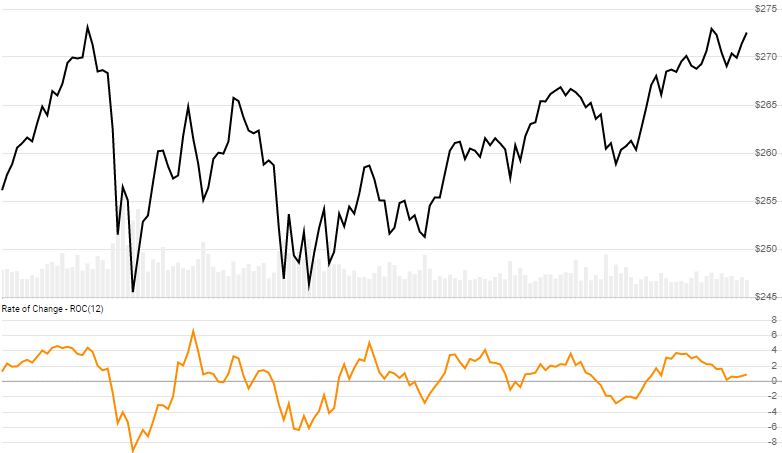
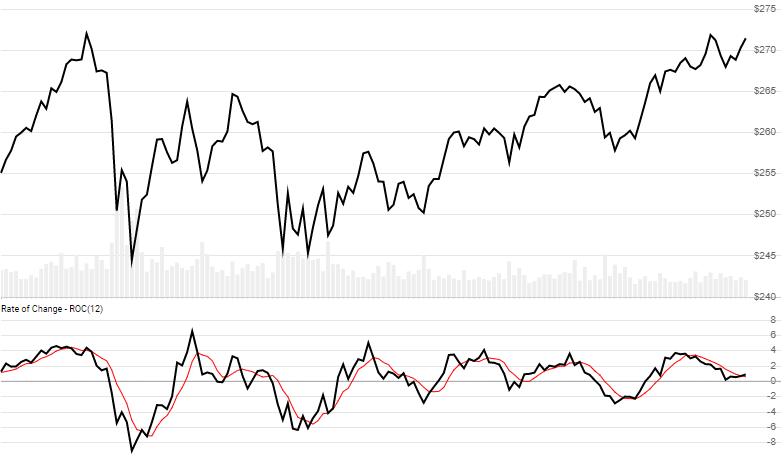
add SMA overlay for ROC, STDEV (#140)
* add SMA for ADL
* add SMA of STDEV
* update charts

diff --git a/tests/indicators/Test.StdDev.cs b/tests/indicators/Test.StdDev.cs
@@ -1,0 +1,93 @@
+using Microsoft.VisualStudio.TestTools.UnitTesting;
+using Skender.Stock.Indicators;
+using System;
+using System.Collections.Generic;
+using System.Linq;
+
+namespace Internal.Tests
+{
+    [TestClass]
+    public class StandardDevTests : TestBase
+    {
+
+        [TestMethod()]
+        public void GetStdDevTest()
+        {
+            int lookbackPeriod = 10;
+            IEnumerable<StdDevResult> results = Indicator.GetStdDev(history, lookbackPeriod);
+
+            // assertions
+
+            // proper quantities
+            // should always be the same number of results as there is history
+            Assert.AreEqual(502, results.Count());
+            Assert.AreEqual(493, results.Where(x => x.StdDev != null).Count());
+            Assert.AreEqual(493, results.Where(x => x.ZScore != null).Count());
+            Assert.AreEqual(false, results.Any(x => x.Sma != null));
+
+            // sample values
+            StdDevResult r1 = results.Where(x => x.Index == 502).FirstOrDefault();
+            Assert.AreEqual(5.4738m, Math.Round((decimal)r1.StdDev, 4));
+            Assert.AreEqual(0.524312m, Math.Round((decimal)r1.ZScore, 6));
+            Assert.AreEqual(null, r1.Sma);
+
+            StdDevResult r2 = results.Where(x => x.Index == 250).FirstOrDefault();
+            Assert.AreEqual(0.9827m, Math.Round((decimal)r2.StdDev, 4));
+            Assert.AreEqual(0.783563m, Math.Round((decimal)r2.ZScore, 6));
+            Assert.AreEqual(null, r2.Sma);
+        }
+
+        [TestMethod()]
+        public void GetStdDevWithSmaTest()
+        {
+            int lookbackPeriod = 10;
+            int smaPeriod = 5;
+            IEnumerable<StdDevResult> results = Indicator.GetStdDev(history, lookbackPeriod, smaPeriod);
+
+            // assertions
+
+            // proper quantities
+            // should always be the same number of results as there is history
+            Assert.AreEqual(502, results.Count());
+            Assert.AreEqual(493, results.Where(x => x.StdDev != null).Count());
+            Assert.AreEqual(493, results.Where(x => x.ZScore != null).Count());
+            Assert.AreEqual(489, results.Where(x => x.Sma != null).Count());
+
+            // sample values
+            StdDevResult r1 = results.Where(x => x.Index == 502).FirstOrDefault();
+            Assert.AreEqual(5.4738m, Math.Round((decimal)r1.StdDev, 4));
+            Assert.AreEqual(0.524312m, Math.Round((decimal)r1.ZScore, 6));
+            Assert.AreEqual(7.6886m, Math.Round((decimal)r1.Sma, 4));
+
+            StdDevResult r2 = results.Where(x => x.Index == 20).FirstOrDefault();
+            Assert.AreEqual(1.1642m, Math.Round((decimal)r2.StdDev, 4));
+            Assert.AreEqual(-0.065282m, Math.Round((decimal)r2.ZScore, 6));
+            Assert.AreEqual(1.1422m, Math.Round((decimal)r2.Sma, 4));
+        }
+
+
+        /* EXCEPTIONS */
+
+        [TestMethod()]
+        [ExpectedException(typeof(BadParameterException), "Bad lookback.")]
+        public void BadLookback()
+        {
+            Indicator.GetStdDev(history, 1);
+        }
+
+        [TestMethod()]
+        [ExpectedException(typeof(BadParameterException), "Bad SMA period.")]
+        public void BadSmaPeriod()
+        {
+            Indicator.GetStdDev(history, 14, 0);
+        }
+
+        [TestMethod()]
+        [ExpectedException(typeof(BadHistoryException), "Insufficient history.")]
+        public void InsufficientHistory()
+        {
+            Indicator.GetStdDev(history.Where(x => x.Index < 30), 30);
+        }
+
+    }
+}

diff --git a/indicators/StdDev/StdDev.cs b/indicators/StdDev/StdDev.cs
@@ -6,24 +6,26 @@ namespace Skender.Stock.Indicators
     public static partial class Indicator
     {
         // STANDARD DEVIATION
-        public static IEnumerable<StdDevResult> GetStdDev(IEnumerable<Quote> history, int lookbackPeriod)
+        public static IEnumerable<StdDevResult> GetStdDev(
+            IEnumerable<Quote> history, int lookbackPeriod, int? smaPeriod = null)
         {
 
             // convert to basic data
             IEnumerable<BasicData> bd = Cleaners.ConvertHistoryToBasic(history, "C");
 
             // calculate
-            return CalcStdDev(bd, lookbackPeriod);
+            return CalcStdDev(bd, lookbackPeriod, smaPeriod);
         }
 
 
-        private static IEnumerable<StdDevResult> CalcStdDev(IEnumerable<BasicData> basicData, int lookbackPeriod)
+        private static IEnumerable<StdDevResult> CalcStdDev(
+            IEnumerable<BasicData> basicData, int lookbackPeriod, int? smaPeriod = null)
         {
             // clean data
             List<BasicData> basicDataList = Cleaners.PrepareBasicData(basicData).ToList();
 
             // validate inputs
-            ValidateStdDev(basicData, lookbackPeriod);
+            ValidateStdDev(basicData, lookbackPeriod, smaPeriod);
 
             // initialize results
             List<StdDevResult> results = new List<StdDevResult>();
@@ -58,19 +60,36 @@ namespace Skender.Stock.Indicators
                 }
 
                 results.Add(result);
+
+                // optional SMA
+                if (smaPeriod != null && bd.Index >= lookbackPeriod + smaPeriod-1)
+                {
+                    decimal sumSma = 0m;
+                    for (int p = (int)bd.Index - (int)smaPeriod; p < bd.Index; p++)
+                    {
+                        sumSma += (decimal)results[p].StdDev;
+                    }
+
+                    result.Sma = sumSma / smaPeriod;
+                }
             }
 
             return results;
         }
 
 
-        private static void ValidateStdDev(IEnumerable<BasicData> basicData, int lookbackPeriod)
+        private static void ValidateStdDev(IEnumerable<BasicData> basicData, int lookbackPeriod, int? smaPeriod)
         {
 
             // check parameters
             if (lookbackPeriod <= 1)
             {
                 throw new BadParameterException("Lookback period must be greater than 1 for Standard Deviation.");
+            }
+
+            if (smaPeriod != null && smaPeriod <= 0)
+            {
+                throw new BadParameterException("SMA period must be greater than 0 for Standard Deviation.");
             }
 
             // check history

diff --git a/tests/indicators/Test.Roc.cs b/tests/indicators/Test.Roc.cs
@@ -21,11 +21,42 @@ namespace Internal.Tests
             // proper quantities
             // should always be the same number of results as there is history
             Assert.AreEqual(502, results.Count());
-            Assert.AreEqual(502 - lookbackPeriod, results.Where(x => x.Roc != null).Count());
+            Assert.AreEqual(482, results.Where(x => x.Roc != null).Count());
+            Assert.AreEqual(false, results.Any(x => x.Sma != null));
 
-            // sample value
-            RocResult r = results.Where(x => x.Index == 502).FirstOrDefault();
-            Assert.AreEqual(-8.2482m, Math.Round((decimal)r.Roc, 4));
+            // sample values
+            RocResult r1 = results.Where(x => x.Index == 502).FirstOrDefault();
+            Assert.AreEqual(-8.2482m, Math.Round((decimal)r1.Roc, 4));
+            Assert.AreEqual(null, r1.Sma);
+
+            RocResult r2 = results.Where(x => x.Index == 250).FirstOrDefault();
+            Assert.AreEqual(2.4827m, Math.Round((decimal)r2.Roc, 4));
+            Assert.AreEqual(null, r2.Sma);
+        }
+
+        [TestMethod()]
+        public void GetRocWithSmaTest()
+        {
+            int lookbackPeriod = 20;
+            int smaPeriod = 5;
+            IEnumerable<RocResult> results = Indicator.GetRoc(history, lookbackPeriod, smaPeriod);
+
+            // assertions
+
+            // proper quantities
+            // should always be the same number of results as there is history
+            Assert.AreEqual(502, results.Count());
+            Assert.AreEqual(502 - lookbackPeriod, results.Where(x => x.Roc != null).Count());
+            Assert.AreEqual(478, results.Where(x => x.Sma != null).Count());
+
+            // sample values
+            RocResult r1 = results.Where(x => x.Index == 502).FirstOrDefault();
+            Assert.AreEqual(-8.2482m, Math.Round((decimal)r1.Roc, 4));
+            Assert.AreEqual(-8.4828m, Math.Round((decimal)r1.Sma, 4));
+
+            RocResult r2 = results.Where(x => x.Index == 30).FirstOrDefault();
+            Assert.AreEqual(3.2936m, Math.Round((decimal)r2.Roc, 4));
+            Assert.AreEqual(2.1558m, Math.Round((decimal)r2.Sma, 4));
         }
 
 
@@ -37,6 +68,14 @@ namespace Internal.Tests
         {
             Indicator.GetRoc(history, 0);
         }
+
+        [TestMethod()]
+        [ExpectedException(typeof(BadParameterException), "Bad SMA period.")]
+        public void BadSmaPeriod()
+        {
+            Indicator.GetRoc(history, 14, 0);
+        }
+
 
         [TestMethod()]
         [ExpectedException(typeof(BadHistoryException), "Insufficient history.")]

diff --git a/indicators/Roc/Roc.cs b/indicators/Roc/Roc.cs
@@ -6,14 +6,15 @@ namespace Skender.Stock.Indicators
     public static partial class Indicator
     {
         // RATE OF CHANGE (ROC)
-        public static IEnumerable<RocResult> GetRoc(IEnumerable<Quote> history, int lookbackPeriod)
+        public static IEnumerable<RocResult> GetRoc(
+            IEnumerable<Quote> history, int lookbackPeriod, int? smaPeriod = null)
         {
 
             // clean quotes
             List<Quote> historyList = Cleaners.PrepareHistory(history).ToList();
 
             // check parameters
-            ValidateRoc(history, lookbackPeriod);
+            ValidateRoc(history, lookbackPeriod, smaPeriod);
 
             // initialize
             List<RocResult> results = new List<RocResult>();
@@ -36,19 +37,36 @@ namespace Skender.Stock.Indicators
                 }
 
                 results.Add(result);
+
+                // optional SMA
+                if (smaPeriod != null && h.Index >= lookbackPeriod + smaPeriod)
+                {
+                    decimal sumSma = 0m;
+                    for (int p = (int)h.Index - (int)smaPeriod; p < h.Index; p++)
+                    {
+                        sumSma += (decimal)results[p].Roc;
+                    }
+
+                    result.Sma = sumSma / smaPeriod;
+                }
             }
 
             return results;
         }
 
 
-        private static void ValidateRoc(IEnumerable<Quote> history, int lookbackPeriod)
+        private static void ValidateRoc(IEnumerable<Quote> history, int lookbackPeriod, int? smaPeriod)
         {
 
             // check parameters
             if (lookbackPeriod <= 0)
             {
                 throw new BadParameterException("Lookback period must be greater than 0 for ROC.");
+            }
+
+            if (smaPeriod != null && smaPeriod <= 0)
+            {
+                throw new BadParameterException("SMA period must be greater than 0 for ROC.");
             }
 
             // check history

diff --git a/tests/performance/Perf.Indicators.cs b/tests/performance/Perf.Indicators.cs
@@ -175,6 +175,12 @@ namespace Tests.Performance
         }
 
         [Benchmark]
+        public object GetRocWithSma()
+        {
+            return Indicator.GetRoc(hm, 20, 14);
+        }
+
+        [Benchmark]
         public object GetRsi()
         {
             return Indicator.GetRsi(hm);
@@ -196,6 +202,12 @@ namespace Tests.Performance
         public object GetStdDev()
         {
             return Indicator.GetStdDev(hm, 20);
+        }
+
+        [Benchmark]
+        public object GetStdDevWithSma()
+        {
+            return Indicator.GetStdDev(hm, 20, 14);
         }
 
         [Benchmark]

diff --git a/indicators/Adl/Adl.cs b/indicators/Adl/Adl.cs
@@ -61,7 +61,7 @@ namespace Skender.Stock.Indicators
             // check parameters
             if (smaPeriod != null && smaPeriod <= 0)
             {
-                throw new BadParameterException("Lookback period must be greater than 0 for ADL SMA.");
+                throw new BadParameterException("SMA period must be greater than 0 for ADL.");
             }
 
             // check history

diff --git a/indicators/Obv/Obv.cs b/indicators/Obv/Obv.cs
@@ -69,7 +69,7 @@ namespace Skender.Stock.Indicators
             // check parameters
             if (smaPeriod != null && smaPeriod <= 0)
             {
-                throw new BadParameterException("Lookback period must be greater than 0 for ADL SMA.");
+                throw new BadParameterException("SMA period must be greater than 0 for ADL.");
             }
 
             // check history

diff --git a/tests/indicators/Test.Adl.cs b/tests/indicators/Test.Adl.cs
@@ -60,8 +60,8 @@ namespace Internal.Tests
         /* EXCEPTIONS */
 
         [TestMethod()]
-        [ExpectedException(typeof(BadParameterException), "Bad lookback.")]
-        public void BadLookback()
+        [ExpectedException(typeof(BadParameterException), "Bad SMA period.")]
+        public void BadSmaPeriod()
         {
             Indicator.GetAdl(history, 0);
         }

diff --git a/tests/indicators/Test.Obv.cs b/tests/indicators/Test.Obv.cs
@@ -53,8 +53,8 @@ namespace Internal.Tests
         /* EXCEPTIONS */
 
         [TestMethod()]
-        [ExpectedException(typeof(BadParameterException), "Bad lookback.")]
-        public void BadLookback()
+        [ExpectedException(typeof(BadParameterException), "Bad SMA period.")]
+        public void BadSmaPeriod()
         {
             Indicator.GetObv(history, 0);
         }

diff --git a/indicators/StdDev/StdDev.Models.cs b/indicators/StdDev/StdDev.Models.cs
@@ -7,5 +7,6 @@ namespace Skender.Stock.Indicators
     {
         public decimal? StdDev { get; set; }
         public decimal? ZScore { get; set; }
+        public decimal? Sma { get; set; }
     }
 }

diff --git a/indicators/Roc/Roc.Models.cs b/indicators/Roc/Roc.Models.cs
@@ -6,5 +6,6 @@ namespace Skender.Stock.Indicators
     public class RocResult : ResultBase
     {
         public decimal? Roc { get; set; }
+        public decimal? Sma { get; set; }
     }
 }
